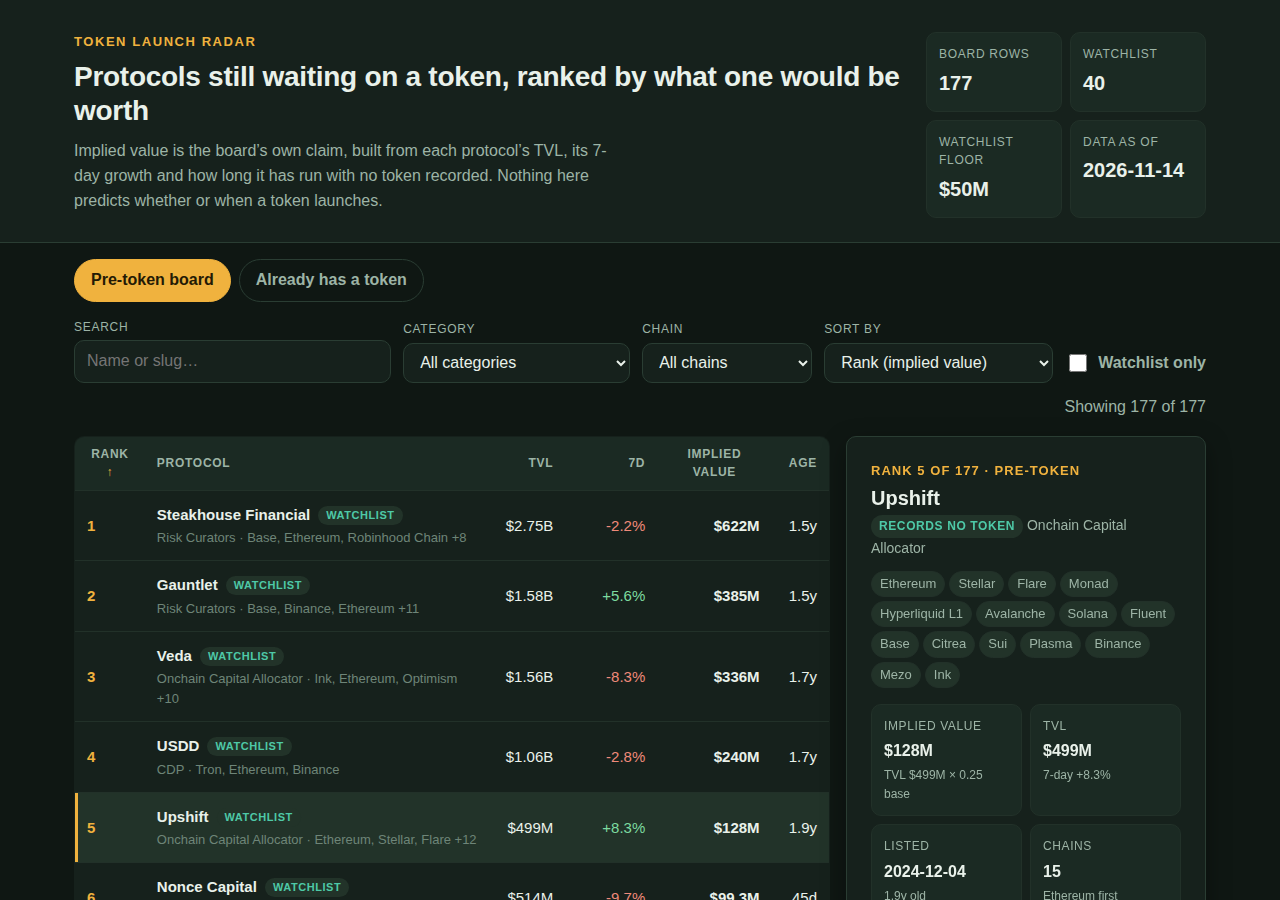
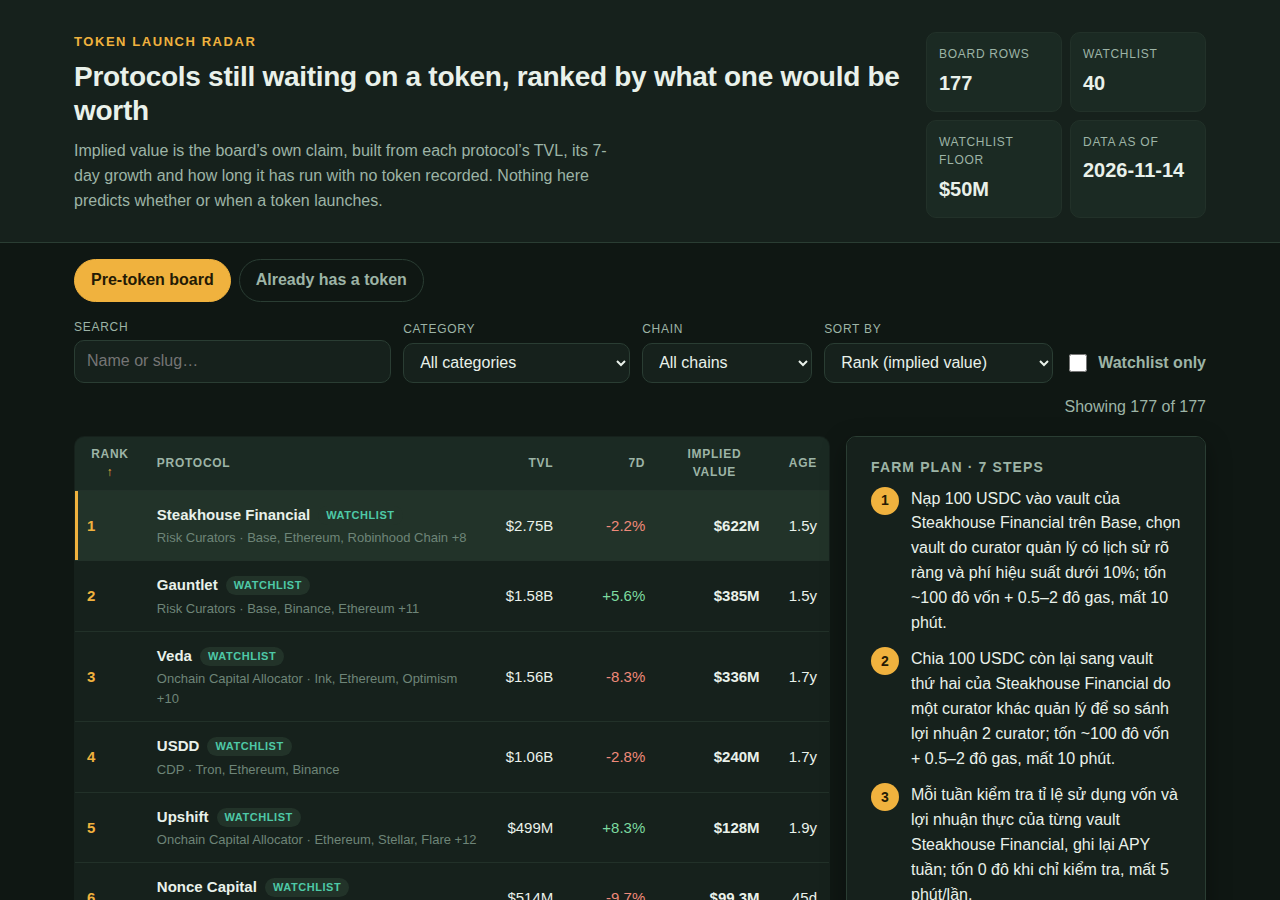
v2: farm plans for all 30 board categories (was 15, 74 rows fell back to generic); detail panel scrolls so the farm plan is reachable; Dexs gas wording chain-neutral

Changed region(s): [[0.6562, 0.4978, 0.9375, 1.0]]

diff --git a/lib/farm-plans.ts b/lib/farm-plans.ts
@@ -30,7 +30,7 @@ export const FARM_TEMPLATES: Record<string, FarmTemplate> = {
   // ---------------------------------------------------------------- Dexs
   // AMM / order-book DEX: swap, them LP, claim phi, vote gauge.
   Dexs: [
-    "Nạp 100 USDC + 0.05 ETH làm gas vào ví trên {chain} rồi mở {name}, swap 50 USDC sang token của pool chính; tốn ~50 đô vốn + 0.3–1 đô gas, mất 5 phút.",
+    "Nạp 100 USDC vào ví trên {chain} (giữ lại ~5 đô token gas của chain đó) rồi mở {name}, swap 50 USDC sang token của pool chính; tốn ~50 đô vốn + 0.3–1 đô gas, mất 5 phút.",
     "Thêm thanh khoản 50 USDC + lượng token tương đương vào pool {name} trên {chain}, chọn biên độ giá hẹp (±10%) để phí cao hơn; tốn ~50 đô vốn, mất 10 phút, giữ tối thiểu 7 ngày.",
     "Mỗi tuần vào {name} claim phí giao dịch đã tích lũy rồi gộp lại vào cùng pool; tốn 0.5–2 đô gas mỗi lần, mất 5 phút/lần, làm 4 tuần liên tiếp.",
     "Swap ngược 25 USDC qua một cặp pool khác trên {name} để tạo volume ở 2 pool thay vì 1; tốn ~25 đô vốn luân chuyển + 0.5–1 đô gas, mất 5 phút.",
@@ -283,6 +283,164 @@ export const FARM_TEMPLATES: Record<string, FarmTemplate> = {
     "Mint thêm 50 USDC tài sản tổng hợp khác loại trên {name} sau 7 ngày để đa dạng; tốn ~50 đô vốn + 1–3 đô gas, mất 10 phút.",
     "Đốt (burn) một nửa tài sản tổng hợp trên {name} sau 14 ngày để rút thế chấp, rồi mint lại sau 3 ngày; tốn ~25 đô vốn luân chuyển + 1–3 đô gas, mất 10 phút.",
     "Dùng tài sản tổng hợp của {name} để giao dịch trên DEX của {chain} với 20 USDC, kiểm tra trượt giá trước; tốn ~20 đô vốn + 0.5–2 đô gas, mất 10 phút.",
+  ],
+
+  // ------------------------------------------------------------ Risk Curators
+  // Nha quan ly rui ro (curator) quan ly vault cho vay: nap vault cua curator,
+  // so sanh curator, chia von giua 2 vault, claim thuong, doi curator.
+  "Risk Curators": [
+    "Nạp 100 USDC vào vault của {name} trên {chain}, chọn vault do curator quản lý có lịch sử rõ ràng và phí hiệu suất dưới 10%; tốn ~100 đô vốn + 0.5–2 đô gas, mất 10 phút.",
+    "Chia 100 USDC còn lại sang vault thứ hai của {name} do một curator khác quản lý để so sánh lợi nhuận 2 curator; tốn ~100 đô vốn + 0.5–2 đô gas, mất 10 phút.",
+    "Mỗi tuần kiểm tra tỉ lệ sử dụng vốn và lợi nhuận thực của từng vault {name}, ghi lại APY tuần; tốn 0 đô khi chỉ kiểm tra, mất 5 phút/lần.",
+    "Chuyển 50 USDC từ vault lợi nhuận thấp sang vault lợi nhuận cao hơn của {name} sau 14 ngày nếu chênh lệch APY trên 2%; tốn 1–3 đô gas, mất 10 phút.",
+    "Claim phần thưởng curator (nếu {name} có) mỗi 2 tuần rồi nạp lại vào cùng vault để lãi kép; tốn 0.5–2 đô gas/lần, mất 5 phút/lần.",
+    "Đọc báo cáo rủi ro của curator trên {name} (nó cho vay thị trường nào, tỉ lệ thế chấp bao nhiêu) trước khi nạp thêm tiền lớn; tốn 0 đô, mất 15 phút đọc.",
+    "Rút một nửa khỏi vault {name} sau 30 ngày rồi nạp lại sau 3 ngày để ghi nhận 1 chu kỳ rút/nạp; tốn ~50 đô vốn luân chuyển + 1–3 đô gas, mất 10 phút.",
+  ],
+
+  // ------------------------------------------------- Onchain Capital Allocator
+  // Bo phan bo von onchain: nap vault phan bo, chon chien luoc, theo doi phan bo.
+  "Onchain Capital Allocator": [
+    "Nạp 100 USDC vào vault phân bổ vốn của {name} trên {chain}, chọn chiến lược có mô tả rõ ràng (ví dụ lending, basis hay LP) và thời gian khóa; tốn ~100 đô vốn + 0.5–2 đô gas, mất 10 phút.",
+    "Mỗi tuần kiểm tra bảng phân bổ của {name} xem vốn đang nằm ở chiến lược nào và lợi nhuận từng phần; tốn 0 đô khi chỉ kiểm tra, mất 5 phút/lần.",
+    "Nạp thêm 50 USDC vào {name} sau 7 ngày khi đã thấy phân bổ chạy ổn định 1 tuần; tốn ~50 đô vốn + 0.5–2 đô gas, mất 5 phút.",
+    "Chuyển 50 USDC từ chiến lược lợi nhuận thấp sang chiến lược khác của {name} (nếu cho đổi) sau 14 ngày; tốn 1–3 đô gas, mất 10 phút.",
+    "Claim phần thưởng phân bổ trên {name} mỗi 2 tuần rồi nạp lại vào cùng vault để lãi kép; tốn 0.5–2 đô gas/lần, mất 5 phút/lần.",
+    "Rút toàn bộ khỏi 1 chiến lược của {name} sau 30 ngày, giữ lại chiến lược còn chạy để so sánh lợi nhuận; tốn 1–3 đô gas, mất 10 phút.",
+  ],
+
+  // ------------------------------------------------------------ Basis Trading
+  // Giao dich basis (mua spot + short perp): nap vault basis, theo doi funding.
+  "Basis Trading": [
+    "Nạp 100 USDC vào vault basis của {name} trên {chain}, đọc kỹ chiến lược basis (mua spot + short perp) và mức funding kỳ vọng; tốn ~100 đô vốn + 0.5–2 đô gas, mất 10 phút.",
+    "Giữ tiền trong vault {name} ít nhất 21 ngày để đi qua đủ chu kỳ funding (thường tính theo 8 giờ); tốn 0 đô khi chỉ giữ, mất 5 phút/tuần kiểm tra.",
+    "Mỗi tuần kiểm tra funding rate thực nhận trên {name}, nếu funding âm 2 tuần liên tiếp thì cân nhắc rút một nửa; tốn 0 đô khi chỉ kiểm tra, mất 5 phút/lần.",
+    "Nạp thêm 50 USDC vào vault basis thứ hai của {name} (cặp tài sản khác) sau 7 ngày để đa dạng basis; tốn ~50 đô vốn + 0.5–2 đô gas, mất 10 phút.",
+    "Claim lợi nhuận basis trên {name} mỗi 2 tuần rồi nạp lại vào cùng vault để lãi kép; tốn 0.5–2 đô gas/lần, mất 5 phút/lần.",
+    "Rút 50 USDC khỏi vault {name} sau 30 ngày rồi nạp lại sau 3 ngày để ghi nhận 1 chu kỳ rút/nạp; tốn ~50 đô vốn luân chuyển + 1–3 đô gas, mất 10 phút.",
+  ],
+
+  // --------------------------------------------------------------------- Chain
+  // Chuoi L1/L2: bridge sang chain, dung app goc, stake token goc, LP tren DEX goc.
+  Chain: [
+    "Bridge 50 USDC từ Ethereum sang {chain} qua cầu nối chính thức của chain (hoặc cầu {name} hỗ trợ), giữ lại 5 đô làm gas; tốn ~50 đô vốn + 1–3 đô phí bridge, mất 10–20 phút.",
+    "Dùng 25 USDC trên {chain} để thử 1 app gốc của chain qua {name} (ví dụ swap trên DEX gốc hoặc supply lên lending gốc); tốn ~25 đô vốn + 0.5–2 đô gas, mất 10 phút.",
+    "Stake 25 USDC token gốc của {chain} qua {name} (nếu có staking) để vừa hưởng lãi vừa ghi nhận hoạt động staking, giữ ít nhất 14 ngày; tốn ~25 đô vốn + 0.5–2 đô gas, mất 10 phút.",
+    "Cung cấp 25 USDC thanh khoản vào pool chính trên DEX gốc của {chain} qua {name}, giữ 14 ngày rồi kiểm tra phí thu được; tốn ~25 đô vốn + 0.5–2 đô gas, mất 10 phút.",
+    "Mỗi tuần làm 1 giao dịch nhỏ 10–20 USDC trên {chain} qua {name} (đổi app hoặc đổi cặp), làm 4 tuần để hoạt động đều theo thời gian; tốn ~15 đô vốn luân chuyển/tuần + 0.5–2 đô gas/lần, mất 10 phút/lần.",
+    "Rút một nửa tài sản khỏi {chain} về Ethereum qua cầu nối sau 30 ngày rồi bridge lại sau 3 ngày để ghi nhận chu kỳ đi/về; tốn ~25 đô vốn luân chuyển + 1–3 đô phí, mất 15 phút.",
+  ],
+
+  // -------------------------------------------------------------------- CeDeFi
+  // CeFi + DeFi: nap tien huong loi suat CeFi tren onchain, doi san pham.
+  CeDeFi: [
+    "Nạp 100 USDC vào {name} trên {chain} để hưởng lợi suất kiểu CeFi trên onchain, đọc kỹ đơn vị lưu ký và tài sản đảm bảo trước khi nạp; tốn ~100 đô vốn + 0.5–2 đô gas, mất 10 phút.",
+    "Giữ tiền trong {name} ít nhất 30 ngày để nhận đủ 1 chu kỳ trả lãi (thường trả theo tháng); tốn 0 đô khi chỉ giữ, mất 5 phút/tuần kiểm tra.",
+    "Nạp thêm 50 USDC vào sản phẩm thứ hai của {name} (ví dụ kỳ hạn khác) sau 14 ngày để đa dạng kỳ hạn; tốn ~50 đô vốn + 0.5–2 đô gas, mất 10 phút.",
+    "Rút 50 USDC khỏi {name} sau 30 ngày khi hết 1 kỳ hạn rồi nạp lại sau 3 ngày để ghi nhận 1 chu kỳ rút/nạp; tốn ~50 đô vốn luân chuyển + 1–3 đô gas, mất 10 phút.",
+    "Claim lãi CeDeFi trên {name} mỗi tháng rồi nạp lại vào cùng sản phẩm để lãi kép; tốn 0.5–2 đô gas/lần, mất 5 phút/lần.",
+  ],
+
+  // ----------------------------------------------------------------- Anchor BTC
+  // BTC neo gia: nap BTC/wBTC, mint san pham BTC neo, dung trong DeFi, doi lai.
+  "Anchor BTC": [
+    "Nạp 0.005 BTC (khoảng 300 đô) vào {name} trên {chain} để mint token BTC neo giá, giữ lại 5 đô token gas của chain; tốn ~300 đô vốn + 1–3 đô gas, mất 10 phút.",
+    "Mang token BTC neo của {name} đi supply vào lending trên {chain} để vừa giữ giá BTC vừa hưởng lãi, giữ ít nhất 14 ngày; tốn 0.5–2 đô gas, mất 10 phút.",
+    "Cung cấp 100 USDC token BTC neo của {name} + 100 USDC BTC vào pool trên DEX của {chain}, giữ 14 ngày rồi kiểm tra phí; tốn ~100 đô vốn + 1–3 đô gas, mất 10 phút.",
+    "Mỗi tuần kiểm tra tỉ giá token BTC neo của {name} so với BTC thật, nếu lệch quá 0.5% thì cân nhắc đổi về BTC; tốn 0 đô khi chỉ kiểm tra, mất 5 phút/lần.",
+    "Đổi một nửa token BTC neo về BTC trên {name} sau 30 ngày rồi mint lại sau 3 ngày để ghi nhận 1 chu kỳ đổi/mint; tốn ~150 đô vốn luân chuyển + 1–3 đô gas, mất 10 phút.",
+  ],
+
+  // --------------------------------------------------------- Leveraged Farming
+  // Farm don bay: nap the chap, mo vi the farm don bay, giu health factor.
+  "Leveraged Farming": [
+    "Nạp 100 USDC làm thế chấp lên {name} trên {chain}, mở 1 vị thế farm đòn bẩy 2x trị giá 100 USDC (50 USDC vốn + 50 USDC vay), đặt ngưỡng an toàn rõ ràng; tốn ~100 đô vốn + 1–3 đô gas, mất 15 phút.",
+    "Mỗi 3 ngày kiểm tra health factor của vị thế farm trên {name}, nếu xuống dưới 1.5 thì trả nợ hoặc nạp thêm thế chấp ngay; tốn 0 đô khi chỉ kiểm tra, mất 2 phút/lần.",
+    "Claim phần thưởng farm trên {name} mỗi tuần rồi bán một nửa, nạp lại một nửa vào cùng vị thế để lãi kép; tốn 0.5–2 đô gas/lần, mất 5 phút/lần.",
+    "Giảm đòn bẩy xuống 1.5x trên {name} sau 14 ngày bằng cách trả 25 USDC nợ vay, giữ vị thế an toàn hơn; tốn ~25 đô vốn + 1–3 đô gas, mất 10 phút.",
+    "Đóng vị thế farm đòn bẩy trên {name} sau 30 ngày: trả hết nợ vay, rút toàn bộ thế chấp về ví; tốn 1–3 đô gas, mất 10 phút.",
+    "Mở lại 1 vị thế farm nhỏ hơn (50 USDC, đòn bẩy 2x) trên {name} sau 3 ngày để ghi nhận chu kỳ đóng/mở; tốn ~50 đô vốn + 1–3 đô gas, mất 10 phút.",
+  ],
+
+  // ------------------------------------------------------ Dual-Token Stablecoin
+  // Stablecoin 2 token: mint stable, stake token tiet kiem, doi qua lai 2 token.
+  "Dual-Token Stablecoin": [
+    "Nạp 100 USDC vào {name} trên {chain} để mint 100 stablecoin của protocol, giữ lại 5 đô làm gas; tốn ~100 đô vốn + 0.5–2 đô gas, mất 5 phút.",
+    "Stake 50 stablecoin vừa mint từ {name} vào token tiết kiệm của protocol để hưởng lãi suất tiết kiệm, giữ 50 còn lại trong ví; tốn 0.5–2 đô gas, mất 10 phút, giữ ít nhất 14 ngày.",
+    "Đổi 25 stablecoin sang token tiết kiệm của {name} rồi đổi ngược lại sau 7 ngày để ghi nhận cả 2 chiều đổi; tốn ~25 đô vốn luân chuyển + 1–3 đô gas, mất 10 phút.",
+    "Mỗi tuần kiểm tra tỉ giá stablecoin của {name} so với 1 đô và lãi suất tiết kiệm, nếu stable lệch quá 0.5% thì đổi sang USDC; tốn 0 đô khi chỉ kiểm tra, mất 2 phút/lần.",
+    "Rút toàn bộ khỏi {name} sau 30 ngày: unstake token tiết kiệm, đổi hết stablecoin về USDC; tốn 1–3 đô gas, mất 10 phút.",
+  ],
+
+  // ----------------------------------------------------------- Decentralized BTC
+  // BTC phi tap trung: bridge BTC sang dang phi tap trung, dung trong DeFi, doi ve.
+  "Decentralized BTC": [
+    "Bridge 0.005 BTC (khoảng 300 đô) sang dạng BTC phi tập trung của {name} trên {chain}, giữ lại 5 đô token gas của chain; tốn ~300 đô vốn + 1–3 đô phí bridge, mất 15–30 phút.",
+    "Mang BTC phi tập trung của {name} đi supply vào lending trên {chain} để hưởng lãi mà vẫn giữ giá BTC, giữ ít nhất 14 ngày; tốn 0.5–2 đô gas, mất 10 phút.",
+    "Cung cấp 100 USDC BTC phi tập trung của {name} + 100 USDC BTC vào pool trên DEX của {chain}, giữ 14 ngày; tốn ~100 đô vốn + 1–3 đô gas, mất 10 phút.",
+    "Mỗi tuần kiểm tra tỉ giá BTC phi tập trung của {name} so với BTC thật, nếu lệch quá 0.5% thì cân nhắc đổi về; tốn 0 đô khi chỉ kiểm tra, mất 5 phút/lần.",
+    "Đổi một nửa BTC phi tập trung về BTC gốc qua {name} sau 30 ngày rồi bridge lại sau 3 ngày để ghi nhận chu kỳ đi/về; tốn ~150 đô vốn luân chuyển + 1–3 đô phí, mất 15 phút.",
+  ],
+
+  // ---------------------------------------------------------- Collateral Markets
+  // Thi truong the chap restaking: nap the chap, chon mang luoi, nhan thuong.
+  "Collateral Markets": [
+    "Nạp 0.05 ETH (khoảng 150 đô) làm tài sản thế chấp lên {name} trên {chain}, giữ lại 0.01 ETH làm gas; tốn ~150 đô vốn + 1–3 đô gas, mất 10 phút.",
+    "Chọn 2–3 mạng lưới (network) trên {name} để ủy quyền thế chấp cho cả 3 thay vì chỉ 1, đọc kỹ điều kiện slashing của từng mạng; tốn 1–3 đô gas, mất 15 phút.",
+    "Giữ vị thế thế chấp trên {name} ít nhất 30 ngày, mỗi tuần kiểm tra phần thưởng từng mạng đã tích lũy; tốn 0 đô khi chỉ kiểm tra, mất 5 phút/lần.",
+    "Nạp thêm 0.02 ETH thế chấp trên {name} sau 14 ngày để tăng tổng lượng thế chấp theo từng đợt; tốn ~60 đô vốn + 1–3 đô gas, mất 5 phút.",
+    "Rút 0.01 ETH khỏi thế chấp trên {name} sau 21 ngày rồi nạp lại sau 3 ngày để ghi nhận chu kỳ rút/nạp; tốn ~30 đô vốn luân chuyển + 2–4 đô gas, mất 10 phút, chờ rút 1–7 ngày.",
+    "Claim phần thưởng restaking trên {name} mỗi 2 tuần rồi nạp lại vào thế chấp để lãi kép; tốn 0.5–2 đô gas/lần, mất 5 phút/lần.",
+  ],
+
+  // ---------------------------------------------------------- Stablecoin Wrapper
+  // Goi stablecoin: wrap stable, dung ban wrap trong DeFi, unwrap/wrap lai.
+  "Stablecoin Wrapper": [
+    "Nạp 100 USDC vào {name} trên {chain} để wrap thành 100 stablecoin đã gói của protocol, giữ lại 5 đô làm gas; tốn ~100 đô vốn + 0.5–2 đô gas, mất 5 phút.",
+    "Mang 50 stablecoin đã gói của {name} đi supply vào lending trên {chain} để hưởng lãi, giữ 50 còn lại trong ví; tốn 0.5–2 đô gas, mất 10 phút, giữ ít nhất 14 ngày.",
+    "Cung cấp 50 USDC stablecoin đã gói của {name} + 50 USDC vào pool trên DEX của {chain}, giữ 14 ngày; tốn ~50 đô vốn + 1–3 đô gas, mất 10 phút.",
+    "Unwrap 50 stablecoin đã gói về USDC trên {name} sau 14 ngày rồi wrap lại sau 3 ngày để ghi nhận chu kỳ unwrap/wrap; tốn ~50 đô vốn luân chuyển + 1–3 đô gas, mất 10 phút.",
+    "Mỗi tuần kiểm tra tỉ giá stablecoin đã gói của {name} so với 1 đô, nếu lệch quá 0.5% thì đổi sang USDC; tốn 0 đô khi chỉ kiểm tra, mất 2 phút/lần.",
+  ],
+
+  // ------------------------------------------------------- Governance Incentives
+  // Khuyen khich quan tri: khoa/bau, nhan bribe, bau hang tuan, claim, bau lai.
+  "Governance Incentives": [
+    "Nạp 50 USDC vào {name} trên {chain} để khóa token quản trị (nếu có) hoặc đăng ký nhận khuyến khích quản trị, giữ lại 5 đô làm gas; tốn ~50 đô vốn + 0.5–2 đô gas, mất 10 phút.",
+    "Bỏ phiếu quản trị 1 lần trên {name} cho đề xuất đang mở, chọn đề xuất có phần thưởng khuyến khích hiển thị; tốn 0.5–1 đô gas, mất 5 phút.",
+    "Mỗi tuần bỏ phiếu 1 lần trên {name} cho đề xuất mới (mỗi epoch 7 ngày vote 1 lần) để có lịch sử vote đều 4 tuần; tốn 0.5–1 đô gas/lần, mất 5 phút/lần.",
+    "Claim phần thưởng khuyến khích (bribe) trên {name} mỗi 2 tuần rồi nạp lại vào vị thế khóa; tốn 0.5–2 đô gas/lần, mất 5 phút/lần.",
+    "Đổi phiếu bầu sang đề xuất khác của {name} sau 14 ngày để thử 2 hướng khuyến khích khác nhau; tốn 0.5–1 đô gas, mất 5 phút.",
+  ],
+
+  // ---------------------------------------------------------- Crypto Card Issuer
+  // Phat hanh the crypto: dang ky the, nap tien, chi tieu, nhan hoan tien.
+  "Crypto Card Issuer": [
+    "Đăng ký thẻ crypto của {name} trên {chain}, nạp 50 USDC vào thẻ để kích hoạt, giữ lại 5 đô làm gas; tốn ~50 đô vốn + 0.5–2 đô gas, mất 10 phút.",
+    "Dùng thẻ {name} chi tiêu 20 USDC cho 1 giao dịch nhỏ (ví dụ mua hàng online) để ghi nhận giao dịch thẻ đầu tiên; tốn ~20 đô vốn + 0 đô phí thẻ, mất 5 phút.",
+    "Nạp thêm 30 USDC vào thẻ {name} sau 7 ngày rồi chi tiêu 10 USDC/tuần trong 4 tuần để có lịch sử chi tiêu đều; tốn ~10 đô vốn/tuần, mất 5 phút/lần.",
+    "Kiểm tra hoàn tiền (cashback) trên {name} mỗi tuần, nếu có hoàn tiền thì rút về ví rồi nạp lại vào thẻ; tốn 0 đô, mất 5 phút/lần.",
+    "Đổi hạn mức hoặc nâng cấp thẻ {name} sau 30 ngày nếu đủ điều kiện chi tiêu, ghi lại lịch sử thẻ đầy đủ; tốn 0–5 đô phí nâng cấp, mất 10 phút.",
+  ],
+
+  // ------------------------------------------------------ Uncollateralized Lending
+  // Cho vay khong the chap: xac minh tin dung, vay nho, tra dung han, xay lich su.
+  "Uncollateralized Lending": [
+    "Hoàn tất xác minh tín dụng trên {name} ở {chain} (kết nối ví, xác minh danh tính nếu yêu cầu), giữ lại 5 đô làm gas; tốn 0–2 đô phí xác minh, mất 15 phút.",
+    "Vay 50 USDC không thế chấp trên {name} với hạn mức nhỏ nhất được duyệt, đọc kỹ lãi suất và kỳ hạn trước khi vay; tốn 0.5–2 đô gas, mất 10 phút.",
+    "Trả đúng hạn 25 USDC nợ vay trên {name} sau 7 ngày để xây lịch sử trả nợ tốt, giữ lại 25 USDC còn nợ; tốn ~25 đô vốn + 0.5–2 đô gas, mất 5 phút.",
+    "Trả hết 25 USDC còn lại trên {name} sau 14 ngày, sau đó vay lại 50 USDC để ghi nhận chu kỳ vay/trả thứ hai; tốn ~50 đô vốn luân chuyển + 0.5–2 đô gas, mất 10 phút.",
+    "Mỗi tuần kiểm tra điểm tín dụng và hạn mức trên {name}, nếu hạn mức tăng thì vay thêm 1 khoản nhỏ 20 USDC; tốn ~20 đô vốn + 0.5–2 đô gas, mất 5 phút/lần.",
+  ],
+
+  // ---------------------------------------------------- Interest Rate Derivatives
+  // Phai sinh lai suat: mua/ban vi the lai suat, giu den dao han, phong ngua.
+  "Interest Rate Derivatives": [
+    "Nạp 50 USDC vào {name} trên {chain}, mua 1 vị thế lãi suất (ví dụ lãi cố định) trị giá 50 USDC kỳ hạn 30 ngày, đọc kỹ lãi suất và ngày đáo hạn; tốn ~50 đô vốn + 0.5–2 đô gas, mất 10 phút.",
+    "Giữ vị thế lãi suất trên {name} ít nhất 14 ngày, mỗi tuần kiểm tra lãi suất thị trường so với lãi đã khóa; tốn 0 đô khi chỉ kiểm tra, mất 5 phút/lần.",
+    "Mở thêm 1 vị thế lãi suất ngược chiều 25 USDC trên {name} sau 7 ngày để phòng ngừa biến động lãi suất; tốn ~25 đô vốn + 0.5–2 đô gas, mất 10 phút.",
+    "Đóng sớm 1 vị thế trên {name} sau 21 ngày nếu lãi suất thị trường đã lệch quá 1% so với lúc mở, chốt chênh lệch; tốn 0.5–2 đô gas, mất 5 phút.",
+    "Giữ vị thế còn lại trên {name} đến đáo hạn 30 ngày rồi nhận lãi và gốc về ví, ghi lại lãi thực nhận; tốn 0.5–2 đô gas, mất 5 phút.",
   ],
 };
 

diff --git a/dashboard/app.css b/dashboard/app.css
@@ -202,6 +202,8 @@ input[type="search"]:focus, select:focus, button:focus-visible {
   border-radius: var(--radius);
   padding: var(--s5);
   box-shadow: var(--shadow);
+  max-height: calc(100vh - 32px);
+  overflow-y: auto;
 }
 .detail-hint { color: var(--faint); margin: 0; }
 .detail .kicker { color: var(--amber); font-size: 13px; font-weight: 700; text-transform: uppercase; letter-spacing: 0.08em; margin-bottom: var(--s1); }
